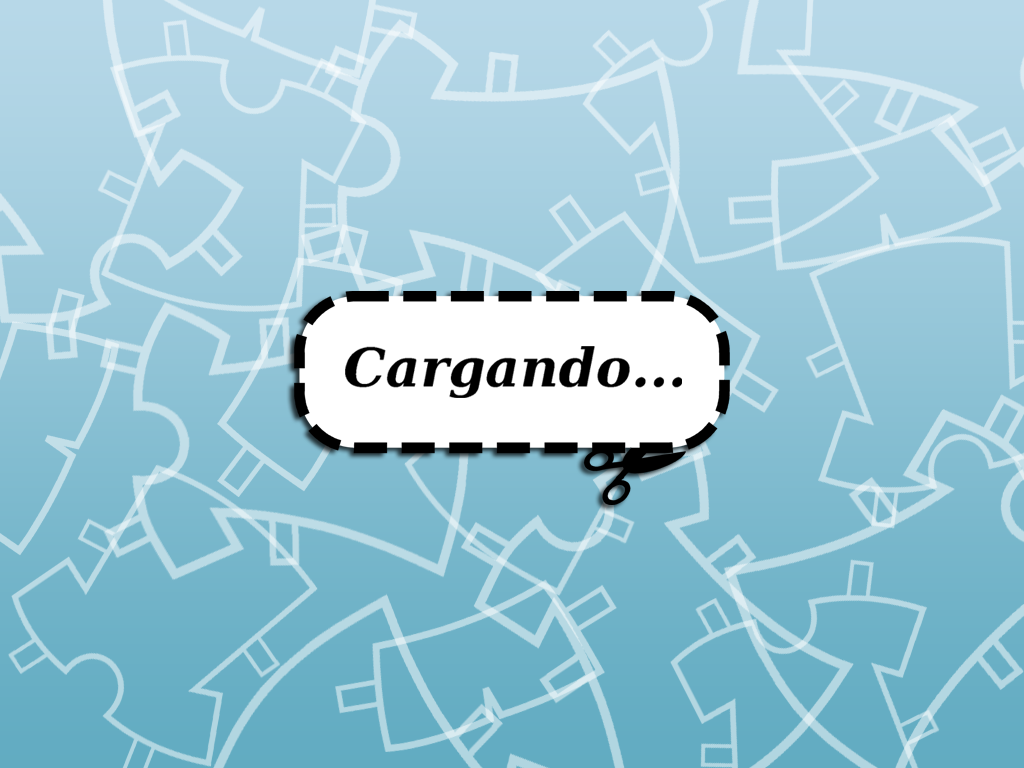
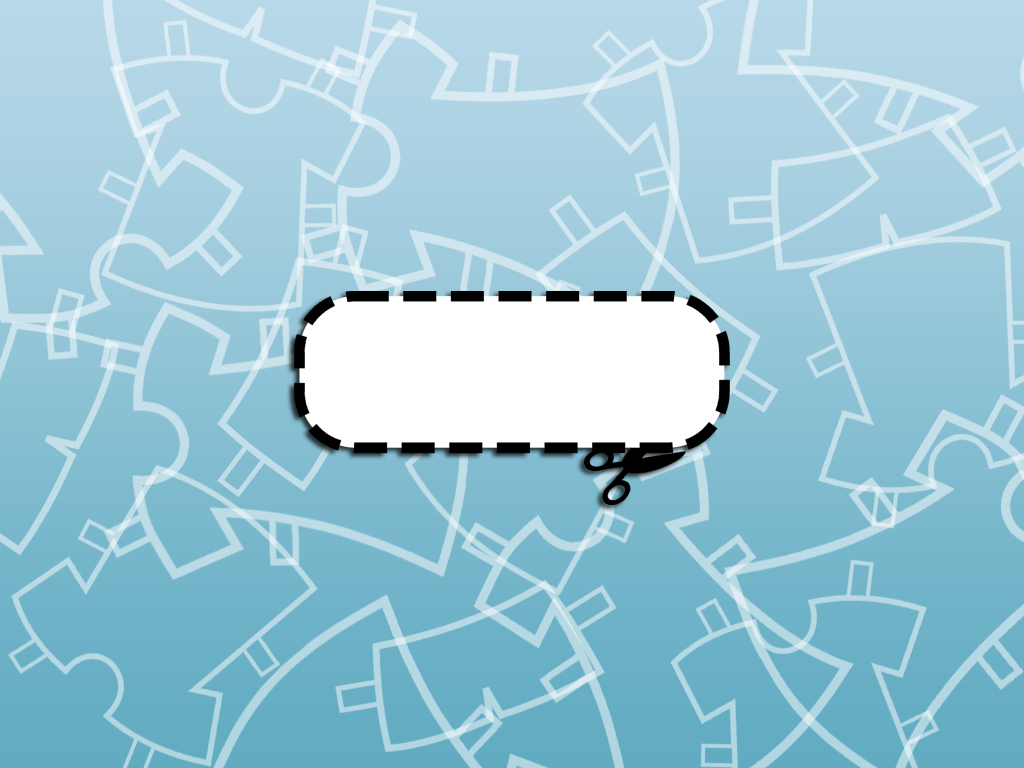
Modificadas imagenes y marcadores de logros.

Changed region(s): [[0.3125, 0.4375, 0.6562, 0.5312]]

diff --git a/gg/GG/isoview/isoview_hud.py b/gg/GG/isoview/isoview_hud.py
@@ -75,6 +75,7 @@ class IsoViewHud(isoview.IsoView):
     self.__player.subscribeEvent('selectedItem', self.itemSelected)
     self.__player.subscribeEvent('unselectedItem', self.itemUnselected)
     self.__player.subscribeEvent('points', self.pointsAdded)
+    self.__player.subscribeEvent('clock', self.clockAdded)
     self.__player.subscribeEvent('exp', self.expAdded)
     self.__player.subscribeEvent('initExchange', self.initExchange)
     self.__player.subscribeEvent('cancelExchange', self.cancelExchange)
@@ -349,6 +350,7 @@ class IsoViewHud(isoview.IsoView):
     event: event info.
     """
     item = ivItem.getModel()
+    #print item
     itemPos = ivItem.getPosition()
     endPos = self.__isoviewRoom.getFutureScreenPosition(ivItem, itemPos)
     if ivItem:
@@ -699,15 +701,29 @@ class IsoViewHud(isoview.IsoView):
     self.dropActionsItembuttons()
 
   def pointsAdded(self, event):
-    """ Updates the points label after receivint a points added event.
+    """ Updates the points label after receiving a points added event.
+    """
+    self.__pointsLabel.label = "GuadaPuntos: " + str(event.getParams()["points"])
+    self.__pointsLabel.set_text("GuadaPuntos: " + str(event.getParams()["points"]))
+    self.hud.remove_child(self.__pointsLabel)
+    self.hud.add_child(self.__pointsLabel)
+    
+  def clockAdded(self, event):
+    """ Updates the exp label after receiving an exp added event.
     """  
-    self.__pointsLabel.set_text("Puntos: " + str(event.getParams()["points"]))
+    self.__labelOld.label = "ClockPuntos: " + str(event.getParams()["clock"])
+    self.__labelOld.set_text("ClockPuntos: " + str(event.getParams()["clock"]))
+    self.hud.remove_child(self.__labelOld)
+    self.hud.add_child(self.__labelOld)
     
   def expAdded(self, event):
-    """ Updates the exp label after receivint an exp added event.
+    """ Updates the exp label after receiving an exp added event.
     """  
-    self.__expLabel.set_text("Exp: " + str(event.getParams()["exp"]))
-  
+    self.__expLabel.label = "Experiencia: " + str(event.getParams()["exp"])
+    self.__expLabel.set_text("Experiencia: " + str(event.getParams()["exp"]))
+    self.hud.remove_child(self.__expLabel)
+    self.hud.add_child(self.__expLabel)
+
   def paintActionButtons(self):
     """ Paints the general action buttons.
     """
@@ -922,15 +938,15 @@ class IsoViewHud(isoview.IsoView):
     labelUserName.topleft = 620, 90
     self.hud.add_child(labelUserName)
     
-    self.__pointsLabel = GG.utils.LabelTransparent("GuadaPuntos: 0", GG.utils.STYLES["userName"])
+    self.__pointsLabel = GG.utils.OcempLabel("GuadaPuntos: 0", 140, GG.utils.STYLES["userName"])
     self.__pointsLabel.topleft = 630, 120
     self.hud.add_child(self.__pointsLabel)
 
-    self.__labelOld = GG.utils.LabelTransparent("ClockPuntos: 0", GG.utils.STYLES["userName"])
+    self.__labelOld = GG.utils.OcempLabel("ClockPuntos: 0", 140, GG.utils.STYLES["userName"])
     self.__labelOld.topleft = 630, 140
     self.hud.add_child(self.__labelOld)
 
-    self.__expLabel = GG.utils.LabelTransparent("Experiencia: 0", GG.utils.STYLES["userName"])
+    self.__expLabel = GG.utils.OcempLabel("Experiencia: 1", 140, GG.utils.STYLES["userName"])
     self.__expLabel.topleft = 630, 160
     self.hud.add_child(self.__expLabel)
 

diff --git a/gg/GG/utils.py b/gg/GG/utils.py
@@ -366,6 +366,21 @@ STYLES = {
                                                 ocempgui.widgets.Constants.STATE_INSENSITIVE  : (0, 0, 255) 
                                               },
                             },   
+          "labelLogin" : { "font" : { "name" : "Bitstream", "size" : 52, "alias" : True },
+                              "fgcolor" : { ocempgui.widgets.Constants.STATE_NORMAL       : (0, 0, 0),
+                                            ocempgui.widgets.Constants.STATE_ENTERED      : (0, 0, 0),
+                                            ocempgui.widgets.Constants.STATE_ACTIVE       : (0, 0, 0),
+                                            ocempgui.widgets.Constants.STATE_INSENSITIVE  : (0, 0, 0) 
+                                          }
+                            },   
+          "labelLoading" : { "font" : { "name" : "Bitstream", "size" : 72, "alias" : True },
+                              "fgcolor" : { ocempgui.widgets.Constants.STATE_NORMAL       : (0, 0, 0),
+                                            ocempgui.widgets.Constants.STATE_ENTERED      : (0, 0, 0),
+                                            ocempgui.widgets.Constants.STATE_ACTIVE       : (0, 0, 0),
+                                            ocempgui.widgets.Constants.STATE_INSENSITIVE  : (0, 0, 0) 
+                                          }
+                            },   
+
           "chatEntryWhite" : { "font" : { "name" : "Bitstream", "size" : 18, "alias" : True },
                               "fgcolor" : { ocempgui.widgets.Constants.STATE_NORMAL       : (0, 0, 0),
                                             ocempgui.widgets.Constants.STATE_ENTERED      : (0, 0, 0),

diff --git a/gg/GG/model/player.py b/gg/GG/model/player.py
@@ -35,7 +35,9 @@ class GGPlayer(GG.model.item_with_inventory.GGItemWithInventory):
     self.__points = 0
     self.__playedTime = 0
     self.__startPlayedTime = 0
-    self.startSessionTiming()    
+    self.startSessionTiming()
+    self.__exp = 0    
+    self.__expRooms = []
     self.__avatarConfiguration = self.__dictAvatarConfiguration()
     self.__exchangeTo = None
     self.__agenda = []
@@ -73,7 +75,13 @@ class GGPlayer(GG.model.item_with_inventory.GGItemWithInventory):
     playedTime = v2 - v1
     self.__startPlayedTime = tmp  
     self.__playedTime += playedTime
-    self.triggerEvent('exp', exp=self.__playedTime)
+    self.triggerEvent('clock', clock=self.__playedTime)
+  
+  def updateExp(self, room):
+    if not room.label in self.__expRooms:
+      self.__expRooms.append(room.label)  
+      self.__exp += 1
+      self.triggerEvent('exp', exp=self.__exp)
   
   def __dictAvatarConfiguration(self):
     dict = {}
@@ -328,6 +336,7 @@ class GGPlayer(GG.model.item_with_inventory.GGItemWithInventory):
     room: new room.
     pos: starting position on the new room.
     """
+    self.updateExp(room)
     self.updateSessionTiming()
     GG.model.room_item.GGRoomItem.changeRoom(self, room, pos)
     
@@ -390,6 +399,7 @@ class GGPlayer(GG.model.item_with_inventory.GGItemWithInventory):
     if self.__state == GG.utils.STATE[3] or self.__state == GG.utils.STATE[4]:
       self.newChatMessage("Ya tengo algo cogido. �No puedo aguantar m�s peso!", 1)  
       return
+    #self.addPoints(99, "Heavy Box") 
     self.setState(GG.utils.STATE[3])
     item.setPosition(self.getPosition())
     self.triggerEvent('liftItem', item=item, position=item.getPosition())

diff --git a/gg/GG/isoview/login.py b/gg/GG/isoview/login.py
@@ -34,6 +34,7 @@ class Login:
     self.widgetContainer.set_screen(self.__screen)
     self.window = ocempgui.widgets.Box(GG.utils.SCREEN_SZ[0],GG.utils.SCREEN_SZ[1])  
     self.__paintScreen()
+    self.__paintTextLabels()
     self.__paintTextEntrys()
     self.__paintButtons()
     self.widgetContainer.add_widget(self.window)
@@ -66,11 +67,23 @@ class Login:
       return self.__session
     self.cancelLogin()
 
-
   def __paintScreen(self):
     imgBackgroundRight = GG.utils.OcempImageMapTransparent(GG.genteguada.GenteGuada.getInstance().getDataPath("interface/backgrounds/startGG.png"))
     imgBackgroundRight.topleft = 0,0
     self.window.add_child(imgBackgroundRight)
+
+  def __paintTextLabels(self):
+    self.__usernameLabel = GG.utils.OcempLabel("Usuario:", 80, ocempgui.widgets.WidgetStyle(GG.utils.STYLES["labelLogin"]))
+    self.__usernameLabel.topleft = 670,410
+    self.__usernameLabel.border = 1
+    self.__usernameLabel.set_minimum_size(230,40)
+    self.window.add_child(self.__usernameLabel)
+
+    self.__passwordLabel = GG.utils.OcempLabel("Password:", 80, ocempgui.widgets.WidgetStyle(GG.utils.STYLES["labelLogin"]))
+    self.__passwordLabel.topleft = 670,520
+    self.__passwordLabel.border = 1
+    self.__passwordLabel.set_minimum_size(230,40)
+    self.window.add_child(self.__passwordLabel)
 
   def __paintTextEntrys(self):
     self.__textFieldUsername = ocempgui.widgets.Entry("")

diff --git a/gg/GG/genteguada.py b/gg/GG/genteguada.py
@@ -8,6 +8,7 @@ import time
 
 import dMVC.remoteclient
 
+import ocempgui.widgets
 import GG.isoview.login
 import GG.model.ggsystem
 import GG.utils
@@ -77,12 +78,31 @@ class GenteGuada:
     else:
       self.fs = 0    
     
+    """
     imgPath = os.path.join(GG.utils.DATA_PATH,"interface/backgrounds/loadingGG.png")
     img = pygame.sprite.Sprite()
     img = pygame.image.load(imgPath).convert_alpha()
     self.screen.blit(img, (0, 0))
     pygame.display.flip()
+    """
 
+    self.widgetContainer = ocempgui.widgets.Renderer()
+    self.widgetContainer.set_screen(self.screen)
+    self.window = ocempgui.widgets.Box(GG.utils.SCREEN_SZ[0],GG.utils.SCREEN_SZ[1])
+    
+    imgPath = os.path.join(GG.utils.DATA_PATH,"interface/backgrounds/loadingGG.png")
+    imgBackgroundRight = GG.utils.OcempImageMapTransparent(imgPath)
+    imgBackgroundRight.topleft = 0,0
+    self.window.add_child(imgBackgroundRight)
+    
+    loadingLabel = GG.utils.OcempLabel("Cargando...", 120, ocempgui.widgets.WidgetStyle(GG.utils.STYLES["labelLoading"]))
+    loadingLabel.topleft = 370,350
+    loadingLabel.border = 1
+    loadingLabel.set_minimum_size(230,40)
+    self.window.add_child(loadingLabel)
+    
+    self.widgetContainer.add_widget(self.window)
+    
     pygame.display.set_caption(GG.utils.VERSION)
 
     #print pygame.display.Info()

diff --git a/gg/GG/model/room_item.py b/gg/GG/model/room_item.py
@@ -16,7 +16,6 @@ class GGRoomItem(inventory_item.GGInventoryItem):
     """
     inventory_item.GGInventoryItem.__init__(self, spriteName)
     self.anchor = anchor
-    #TODO: calcular la primera coordenada de topAnchor
     self.topAnchor = [topAnchor[0] , GG.utils.TILE_SZ[1] + anchor[1] + topAnchor[1]]
     self.__room = None
     self.__tile = None

diff --git a/gg/GG/model/room.py b/gg/GG/model/room.py
@@ -23,7 +23,7 @@ class GGRoom(GG.model.ggmodel.GGModel):
     GG.model.ggmodel.GGModel.__init__(self)
     self.spriteFull = spriteFull
     self.size = size
-    self.label = label # Variable para realizar pruebas, sera eliminada
+    self.label = label
     self.maxUsers = maxUsers
     self.__tiles = []
     for i in range(0, self.size[0]):
